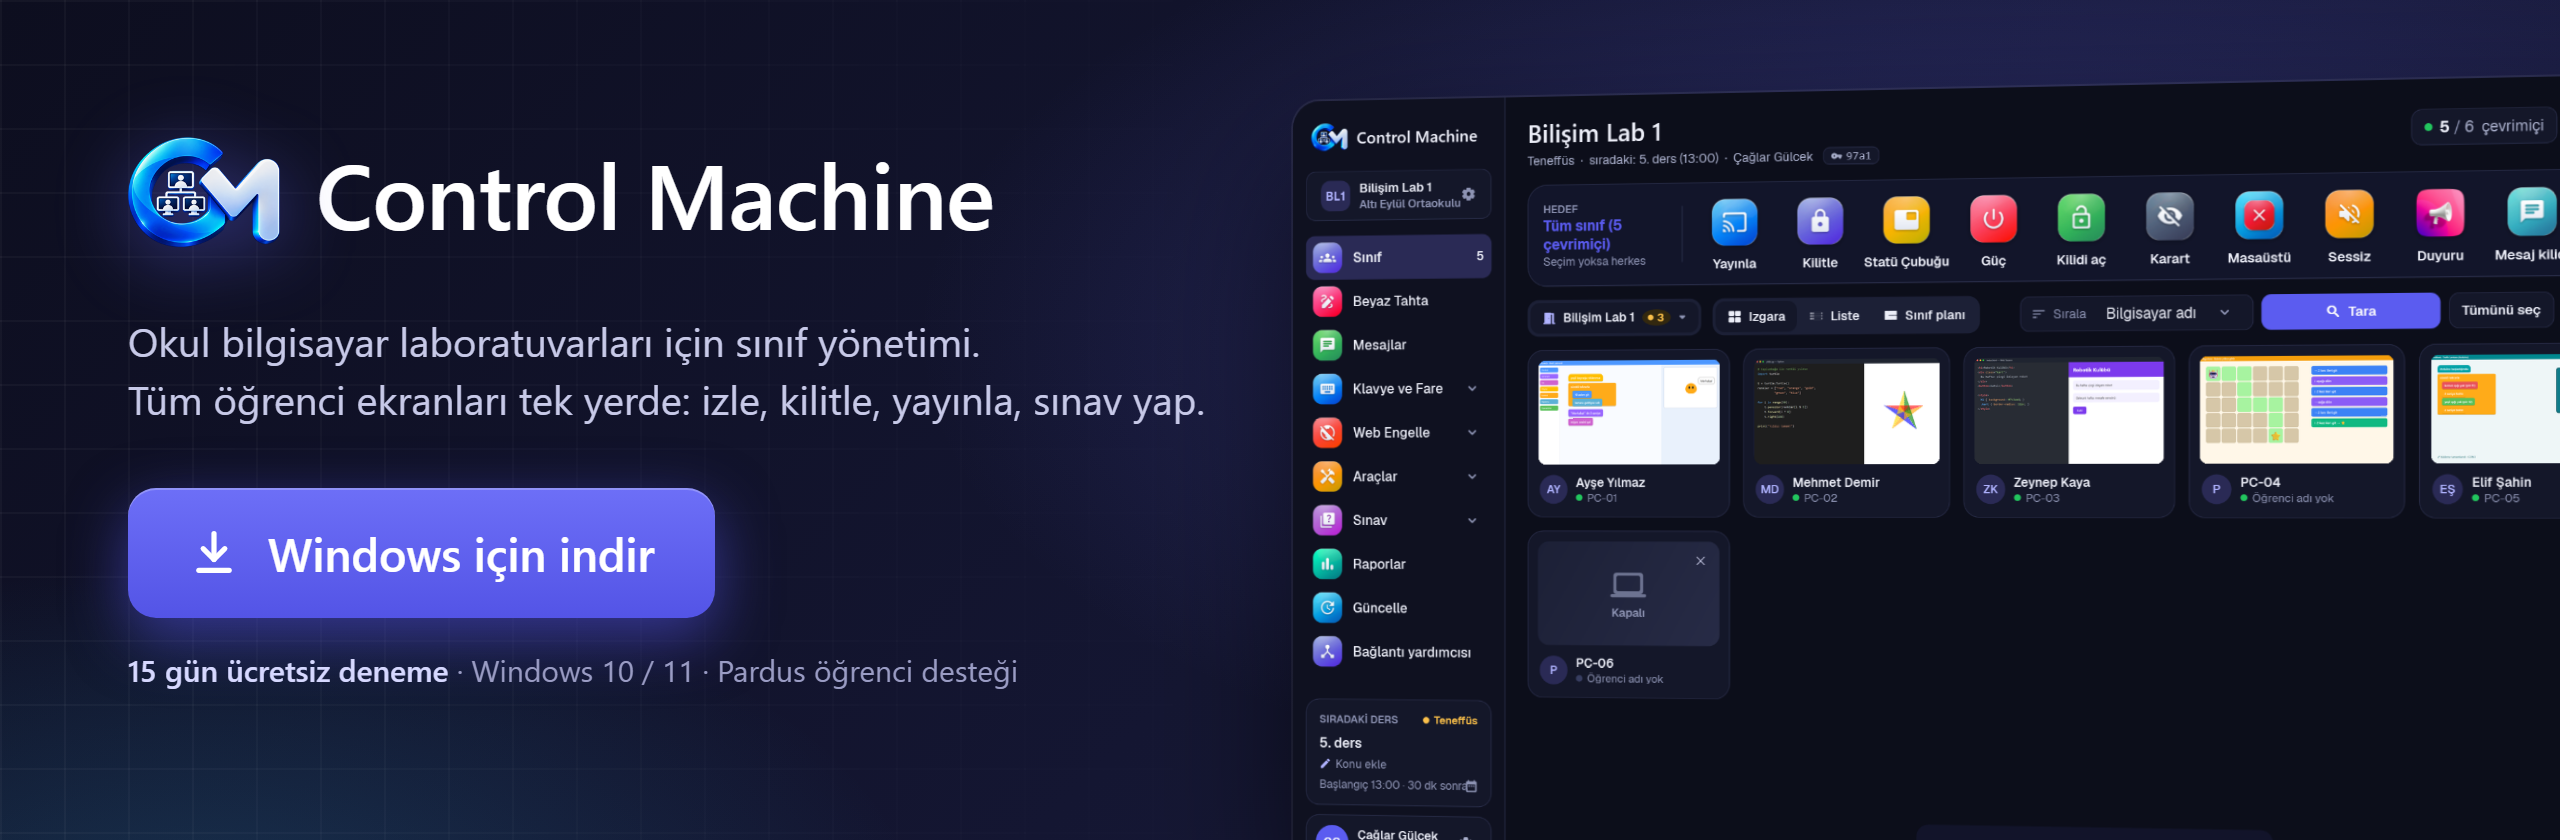
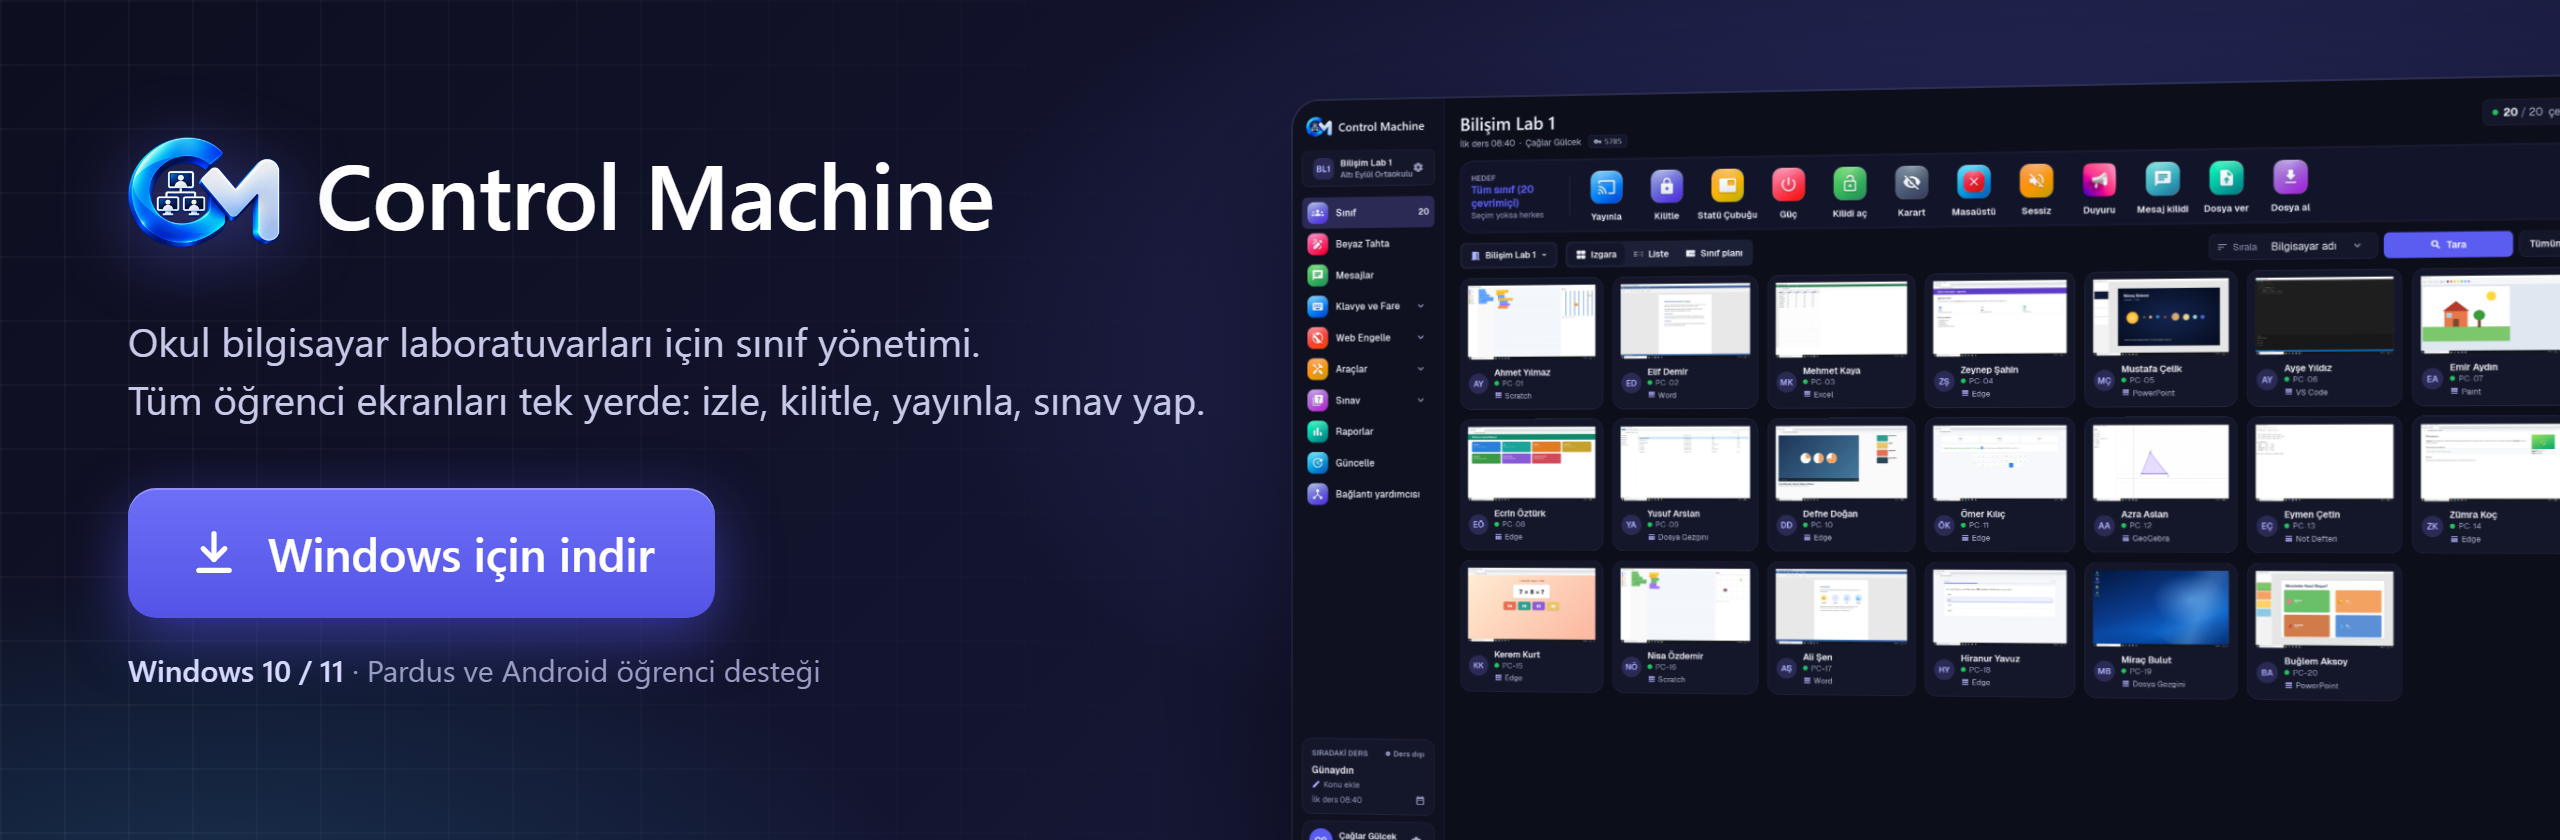
Ana sayfa: Android öğrenci uygulaması bağlantısı, deneme ifadeleri kaldırıldı, yeni afiş

diff --git a/README.md b/README.md
@@ -7,8 +7,8 @@
 </p>
 
 <p align="center">
-  <a href="https://github.com/caglargulcek/ControlMachine/releases/download/v0.1.37/ControlMachine-Kurulum-0.1.37.exe"><b>⬇ ControlMachine-Kurulum-0.1.37.exe indir</b></a> (15 gün ücretsiz deneme)<br>
-  <a href="https://github.com/caglargulcek/ControlMachine/releases/download/v0.1.37/ControlMachine-Telefon-1.3.3.apk">📱 Android telefon uygulaması</a> · <a href="../../releases/latest">Sürüm notları</a>
+  <a href="https://github.com/caglargulcek/ControlMachine/releases/download/v0.1.37/ControlMachine-Kurulum-0.1.37.exe"><b>⬇ ControlMachine-Kurulum-0.1.37.exe indir</b></a><br>
+  <a href="https://github.com/caglargulcek/ControlMachine/releases/download/v0.1.37/ControlMachine-Telefon-1.3.3.apk">📱 Öğretmen telefon uygulaması</a> · <a href="https://github.com/caglargulcek/ControlMachine/releases/download/v0.1.37/ControlMachine-Ogrenci-Android-0.1.1.apk">📲 Android öğrenci (tablet) uygulaması</a> · <a href="../../releases/latest">Sürüm notları</a>
 </p>
 
 ---
@@ -26,23 +26,23 @@
 - **Güvenli internet** — İstenmeyen siteleri ve programları engelleyin, uygunsuz kelimelerden haberdar olun.
 - **Ders programı ve zil** — Teneffüste ekranlar kendiliğinden kilitlenir, gün sonunda bilgisayarlar kapanır.
 - **Telefondan yönetim** — Karekodu okutun, sınıfı cebinizden yönetin.
-- **Windows ve Pardus** — Windows öğrenci bilgisayarları ve Pardus akıllı tahtalar desteklenir.
+- **Windows, Pardus ve Android** — Windows öğrenci bilgisayarları, Pardus akıllı tahtalar ve Android tabletler desteklenir.
 
 ## Sistem gereksinimleri
 
 | | |
 |---|---|
 | **Öğretmen bilgisayarı** | Windows 10 / 11, 64 bit |
-| **Öğrenci bilgisayarları** | Windows 10 / 11 ya da Pardus |
+| **Öğrenci bilgisayarları** | Windows 10 / 11, Pardus ya da Android 7 ve üstü tablet |
 | **Ağ** | Öğretmen ve öğrenci bilgisayarları aynı okul ağında |
-| **İnternet** | Yalnızca deneme sürümünün ilk etkinleştirmesi için |
+| **İnternet** | Yalnızca ilk etkinleştirme için |
 
 ## Kurulum
 
 ### 1. Öğretmen bilgisayarı
 1. [Son sürüm](../../releases/latest) sayfasından **ControlMachine-Kurulum-x.y.z.exe** dosyasını indirin.
 2. Dosyaya çift tıklayın, lisans sözleşmesini kabul edip kurulumu tamamlayın.
-3. İlk açılışta e-posta adresinizi girip **Etkinleştir** deyin. 15 günlük deneme başlar.
+3. İlk açılışta e-posta adresinizi girip **Etkinleştir** deyin.
 
 > Kurulum dosyası henüz kod imzası taşımadığı için Windows **"Bilinmeyen yayıncı"** uyarısı gösterebilir:
 > **Ek bilgi › Yine de çalıştır** ile devam edin.
@@ -52,16 +52,14 @@
 2. Oluşan **tek kurulum dosyasını** USB bellekle ya da ağ üzerinden öğrenci bilgisayarına taşıyın.
 3. Öğrenci bilgisayarında çalıştırın ve yönetici iznini onaylayın. Bilgisayar birkaç saniye içinde öğretmen ekranında belirir.
 
-## Deneme sürümü
-
-- 15 gün boyunca **tüm özellikler** açıktır.
-- Süre dolunca program kilitlenir; devam etmek için lisans anahtarı gerekir.
-- Bilgisayarın saatini değiştirmek deneme süresini uzatmaz.
+### 3. Android tabletler
+1. [Son sürüm](../../releases/latest) sayfasından **ControlMachine-Ogrenci-Android-x.y.z.apk** dosyasını tablete indirip kurun (Android 7 ve üstü).
+2. Uygulamayı açıp istenen izinleri verin; tablet aynı ağdaki öğretmen bilgisayarını kendiliğinden bulur.
 
 ## Gizlilik
 
 Öğrenci verileri (adlar, sınav sonuçları, ekran görüntüleri) **okulunuzun ağından dışarı çıkmaz**; ekran görüntüleri kaydedilmez,
-öğrencinin tuş vuruşları asla kaydedilmez. Deneme etkinleştirmesinde yalnızca e-posta adresi ve bilgisayarın donanım kimliği lisans
+öğrencinin tuş vuruşları asla kaydedilmez. Etkinleştirmede yalnızca e-posta adresi ve bilgisayarın donanım kimliği lisans
 sunucusuna iletilir. Ayrıntılar: [LİSANS](LISANS.md).
 
 ## Dosyayı doğrulama
